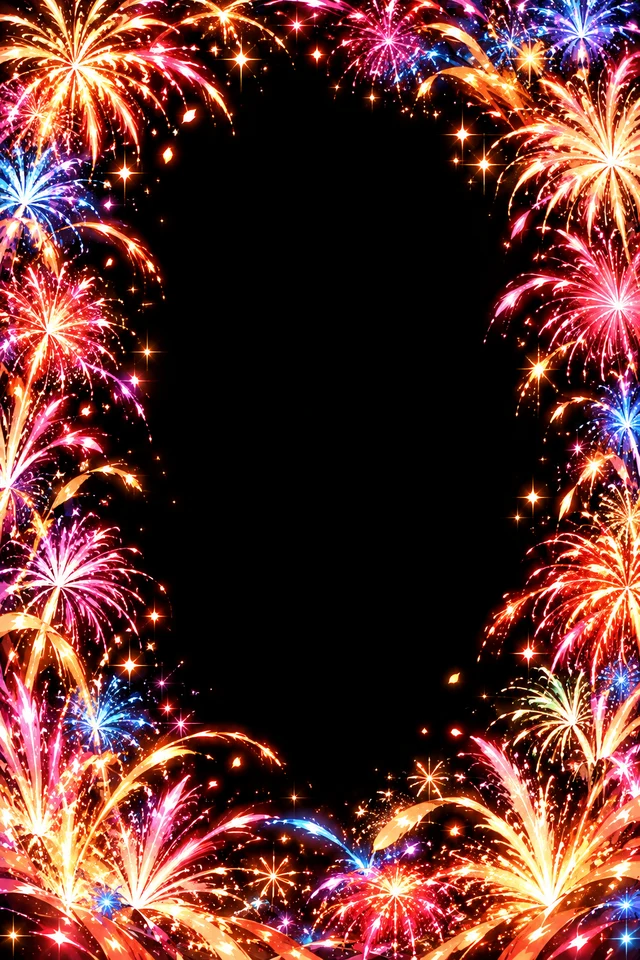
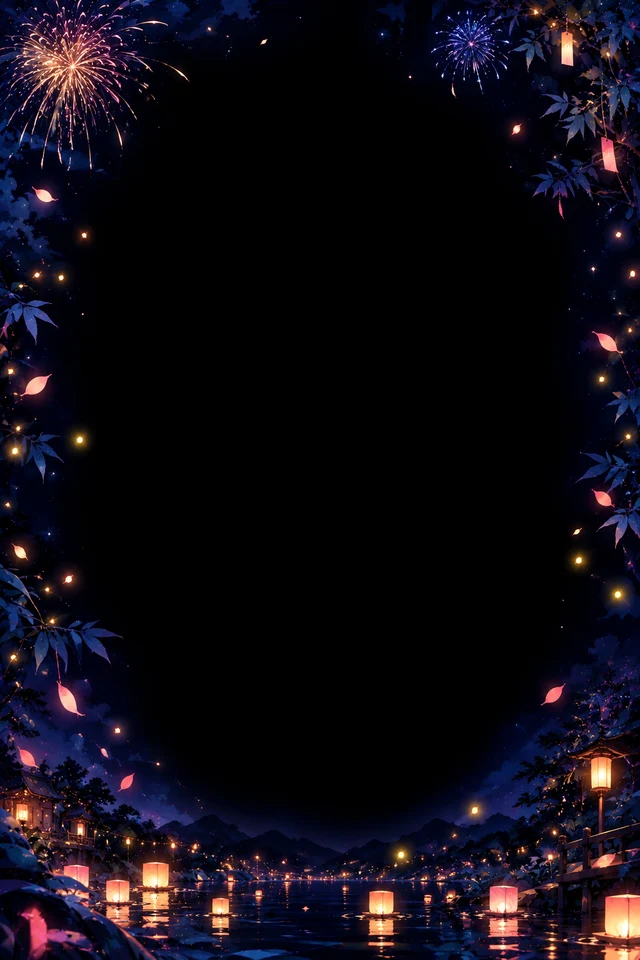
격투 상점 오라 가장자리 흐림 + 이그나 오라를 은은한 축제 밤으로
- 오라 마스크(AURA_MASK)를 skins.ts 로 옮겨 상점 · 선택 화면 같이 씀, 상점 미리보기 칸 가장자리 어둡게
- 불꽃놀이 이그나 오라: 화려한 불꽃 → 밤하늘 · 등불 · 작은 불꽃 (ART_VER 2)

Claude-Session: https://claude.ai/code/session_01Q2UB7i4vqxaYB5FLGw9KQA

diff --git a/web/src/lib/fight/skins.ts b/web/src/lib/fight/skins.ts
@@ -65,7 +65,7 @@ export function look(ch: number, skin?: string | null): string {
   return s && s.ch === id ? s.id : id;
 }
 /** 스킨 그림을 바꿨을 때 올려서 브라우저에 남은 예전 그림 대신 새로 받게 함 */
-const ART_VER: Record<string, number> = { "soyoung-bunny": 7 };
+const ART_VER: Record<string, number> = { "soyoung-bunny": 7, "igna-fw": 2 };
 const ver = (id: string) => (ART_VER[id] ? `?v=${ART_VER[id]}` : "");
 export const artUrl = (ch: number, skin?: string | null) => `/fight/art/${look(ch, skin)}.webp${ver(look(ch, skin))}`;
 export const faceUrl = (ch: number, skin?: string | null) => `/fight/art/${look(ch, skin)}-face.webp${ver(look(ch, skin))}`;
@@ -76,5 +76,12 @@ const AURA: Record<string, string> = {
   "kai-tkd": "/fight/shop/kai-tkd-aura.webp",
   "lily-frog": "/fight/shop/lily-frog-aura.webp",
 };
+/** 오라 그림 가장자리를 부드럽게 흐려 네모 테두리가 안 보이게 */
+export const AURA_MASK = {
+  maskImage: "linear-gradient(to right,transparent,#000 14%,#000 86%,transparent),linear-gradient(transparent,#000 8%,#000 92%,transparent)",
+  maskComposite: "intersect",
+  WebkitMaskImage: "linear-gradient(to right,transparent,#000 14%,#000 86%,transparent),linear-gradient(transparent,#000 8%,#000 92%,transparent)",
+  WebkitMaskComposite: "source-in",
+} as const;
 export const auraUrl = (id?: string | null) => (id && AURA[id] ? `${AURA[id]}${ver(id)}` : null);
 export const cutinUrl = (ch: number, skin?: string | null) => `/fight/cutin/${look(ch, skin)}.webp${ver(look(ch, skin))}`;

diff --git a/web/src/components/Fight/SkinShop.tsx b/web/src/components/Fight/SkinShop.tsx
@@ -7,7 +7,7 @@
  */
 import { useEffect, useState } from "react";
 import { CHARS } from "@/lib/fight/chars";
-import { FIGHT_SKINS, artUrl, auraUrl, faceUrl, skinItem, type FightSkin } from "@/lib/fight/skins";
+import { AURA_MASK, FIGHT_SKINS, artUrl, auraUrl, faceUrl, skinItem, type FightSkin } from "@/lib/fight/skins";
 import { reloadMySkins, useMySkins, wearMySkin } from "@/lib/fight/mySkins";
 import { shopItem } from "@/lib/points";
 import { buyItem } from "@/lib/api/points";
@@ -190,9 +190,12 @@ export default function SkinShop({ initial = "shop", onClose }: { initial?: Shop
                   key={`aura-${skin.id}`}
                   src={auraUrl(skin.id)!}
                   alt=""
+                  style={AURA_MASK}
                   className="pointer-events-none absolute bottom-0 left-[38%] h-full -translate-x-1/2 object-contain object-bottom mix-blend-screen [animation:shop-aura_3.2s_ease-in-out_infinite_alternate]"
                 />
               )}
+              {/* 가장자리 어둡게 흐림 — 오라 · 불꽃이 칸 모서리에서 각지게 잘려 보이지 않게 */}
+              <div className="pointer-events-none absolute inset-0 shadow-[inset_0_0_3cqw_1.2cqw_#0a0414]" />
               <style>{`@keyframes shop-aura{from{opacity:.7;filter:brightness(.9)}to{opacity:1;filter:brightness(1.15)}}`}</style>
               <img
                 key={skin.id}

diff --git a/web/src/components/Fight/Select.tsx b/web/src/components/Fight/Select.tsx
@@ -17,15 +17,7 @@ import { SettingsModal } from "./Settings";
 import TechGuide from "./TechGuide";
 import PixelPreview from "./PixelPreview";
 import { TUT_CHAR, TUT_FOE, TUT_MAP } from "@/lib/fight/tutorial";
-import { artUrl, auraUrl, look } from "@/lib/fight/skins";
-
-/** 오라 그림 가장자리를 부드럽게 흐려 네모 테두리가 안 보이게 */
-const AURA_MASK = {
-  maskImage: "linear-gradient(to right,transparent,#000 14%,#000 86%,transparent),linear-gradient(transparent,#000 8%,#000 92%,transparent)",
-  maskComposite: "intersect",
-  WebkitMaskImage: "linear-gradient(to right,transparent,#000 14%,#000 86%,transparent),linear-gradient(transparent,#000 8%,#000 92%,transparent)",
-  WebkitMaskComposite: "source-in",
-} as const;
+import { AURA_MASK, artUrl, auraUrl, look } from "@/lib/fight/skins";
 import { useMySkins, wornSkin } from "@/lib/fight/mySkins";
 import { useNick } from "@/lib/AuthContext";
 import SkinShop, { type ShopTab } from "./SkinShop";
